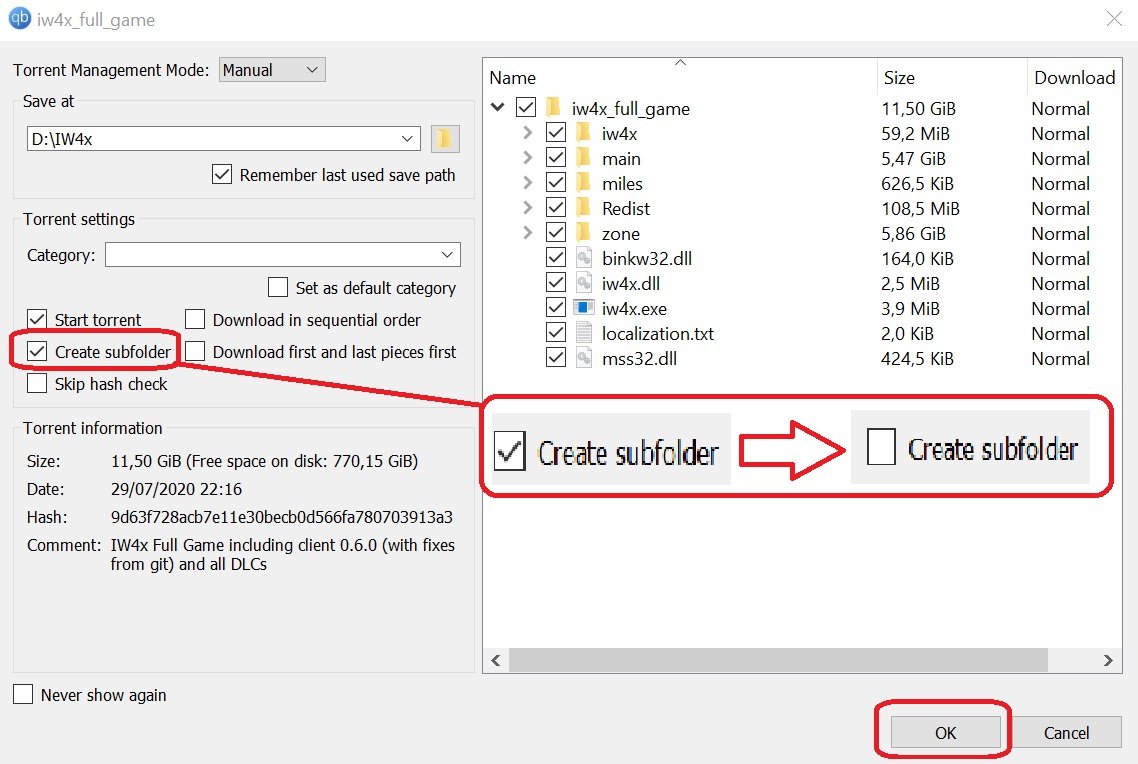
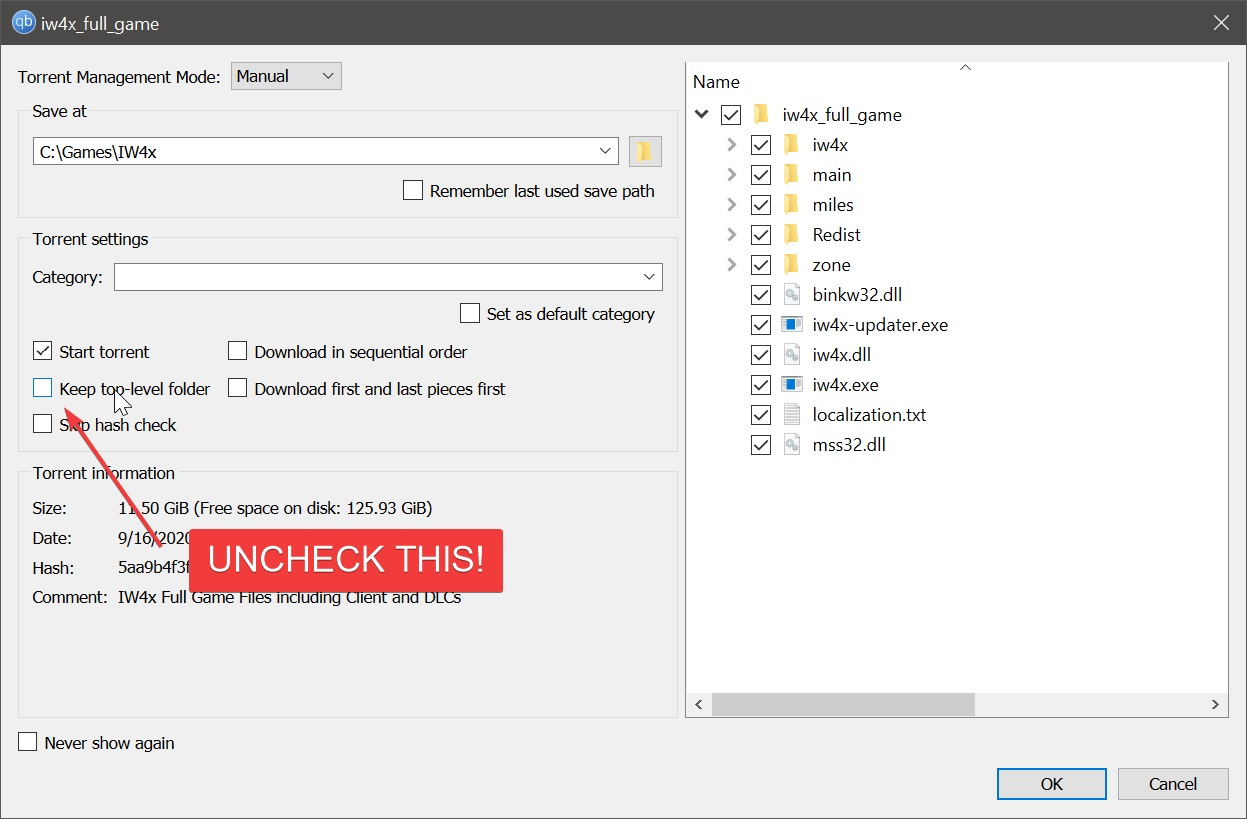
update new qbit lang

Changed region(s): [[0.0, 0.0, 1.0, 0.873], [0.0, 0.8429, 1.0, 1.0], [0.0, 0.873, 0.1538, 0.9332]]

diff --git a/iw6x_repair.html b/iw6x_repair.html
@@ -98,7 +98,7 @@
 				<img src="img/iw6x_repair/guideRepairTorrent.jpg" width="568" height="380">
 				<li>Browse to the location of your IW6x folder and mark it by clicking on it once. Now click "Select Folder":</li>
 				<img src="img/iw6x_repair/guideRepairTorrent2.jpg" width="467" height="413">
-				<li><b>IMPORTANT:</b> Untick "Create Subfolder", after that hit OK to start the repair process:</li>
+				<li><b>IMPORTANT:</b> Untick "Keep top-level folder", after that hit OK to start the repair process:</li>
 				<img src="img/iw6x_repair/guideRepairTorrent3.jpg" width="539" height="344">
 				<li>The torrent client will now check your game files and re-download missing or corrupted ones:</li>
 				<img src="img/iw6x_repair/guideRepairTorrent4.jpg" >

diff --git a/iw4x_repair.html b/iw4x_repair.html
@@ -98,7 +98,7 @@
 				<img src="img/iw4x_repair/guideRepairTorrent.jpg" width="568" height="380">
 				<li>Browse to the location of your mw2 folder and mark it by clicking on it once. Now click "Select Folder":</li>
 				<img src="img/iw4x_repair/guideRepairTorrent2.jpg" width="467" height="413">
-				<li><b>IMPORTANT:</b> Untick "Create Subfolder", after that hit OK to start the repair process:</li>
+				<li><b>IMPORTANT:</b> Untick "Keep top-level folder", after that hit OK to start the repair process:</li>
 				<img src="img/iw4x_repair/guideRepairTorrent3.jpg" width="539" height="344">
 				<li>The torrent client will now check your game files and re-download missing or corrupted ones:</li>
 				<img src="img/iw4x_repair/guideRepairTorrent4.jpg" >
